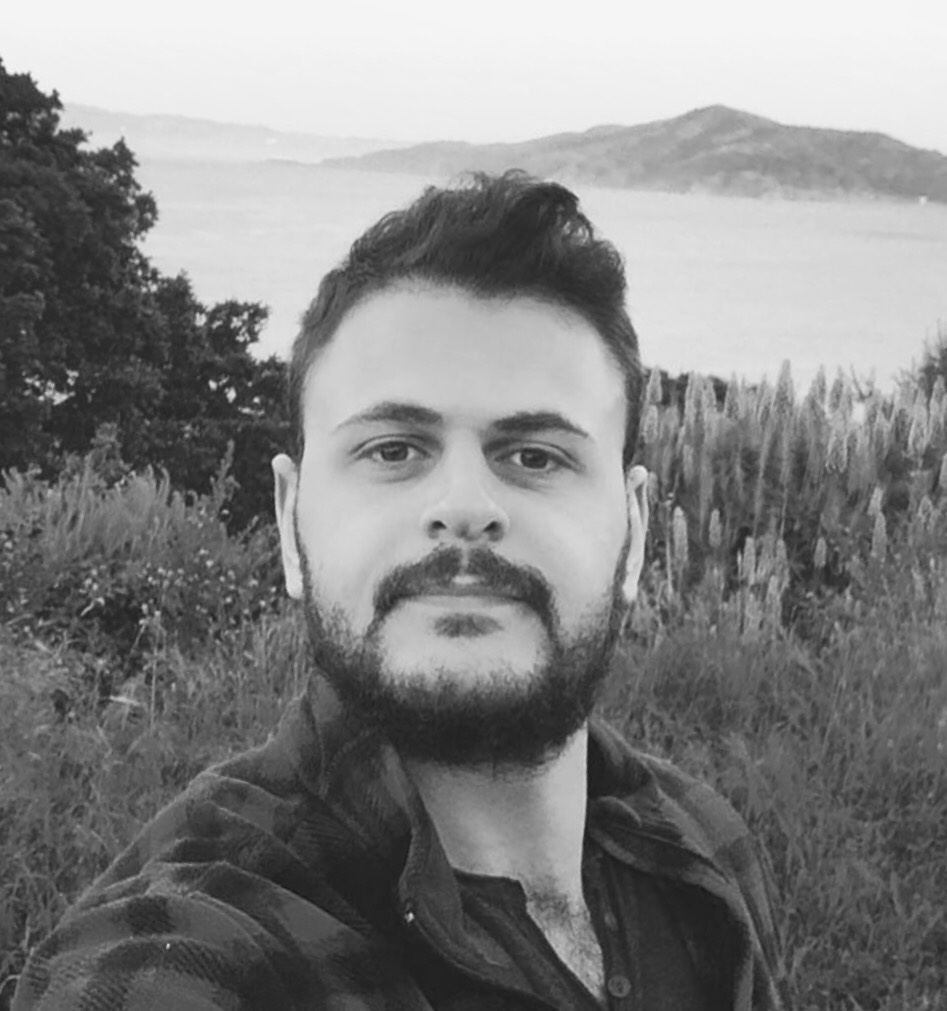
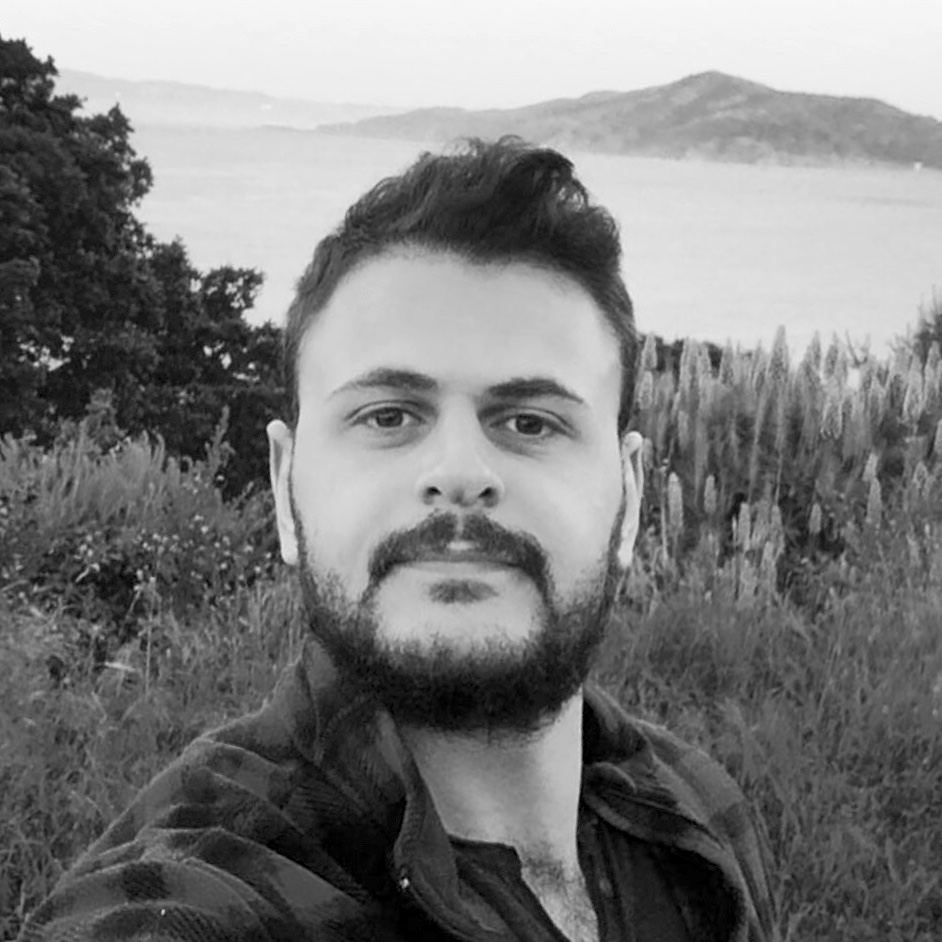
Update profile photo and about me text

diff --git a/_layouts/default.html b/_layouts/default.html
@@ -22,7 +22,7 @@
       <div class="content-section">
 
         <p>
-          I'm Onuralp Taner, a software architect at <a href="https://www.ciceksepeti.com">CicekSepeti</a>. Focusus on .Net core, go, AWS, Azure, docker, Kubernetes and ElasticSearch.
+          I'm Onuralp Taner, a software architect at <a href="https://www.ciceksepeti.com">CicekSepeti</a>. Focusus on .Net Core, Go, AWS, Azure, Docker, Kubernetes and ElasticSearch.
         </p>
 
       </div>
